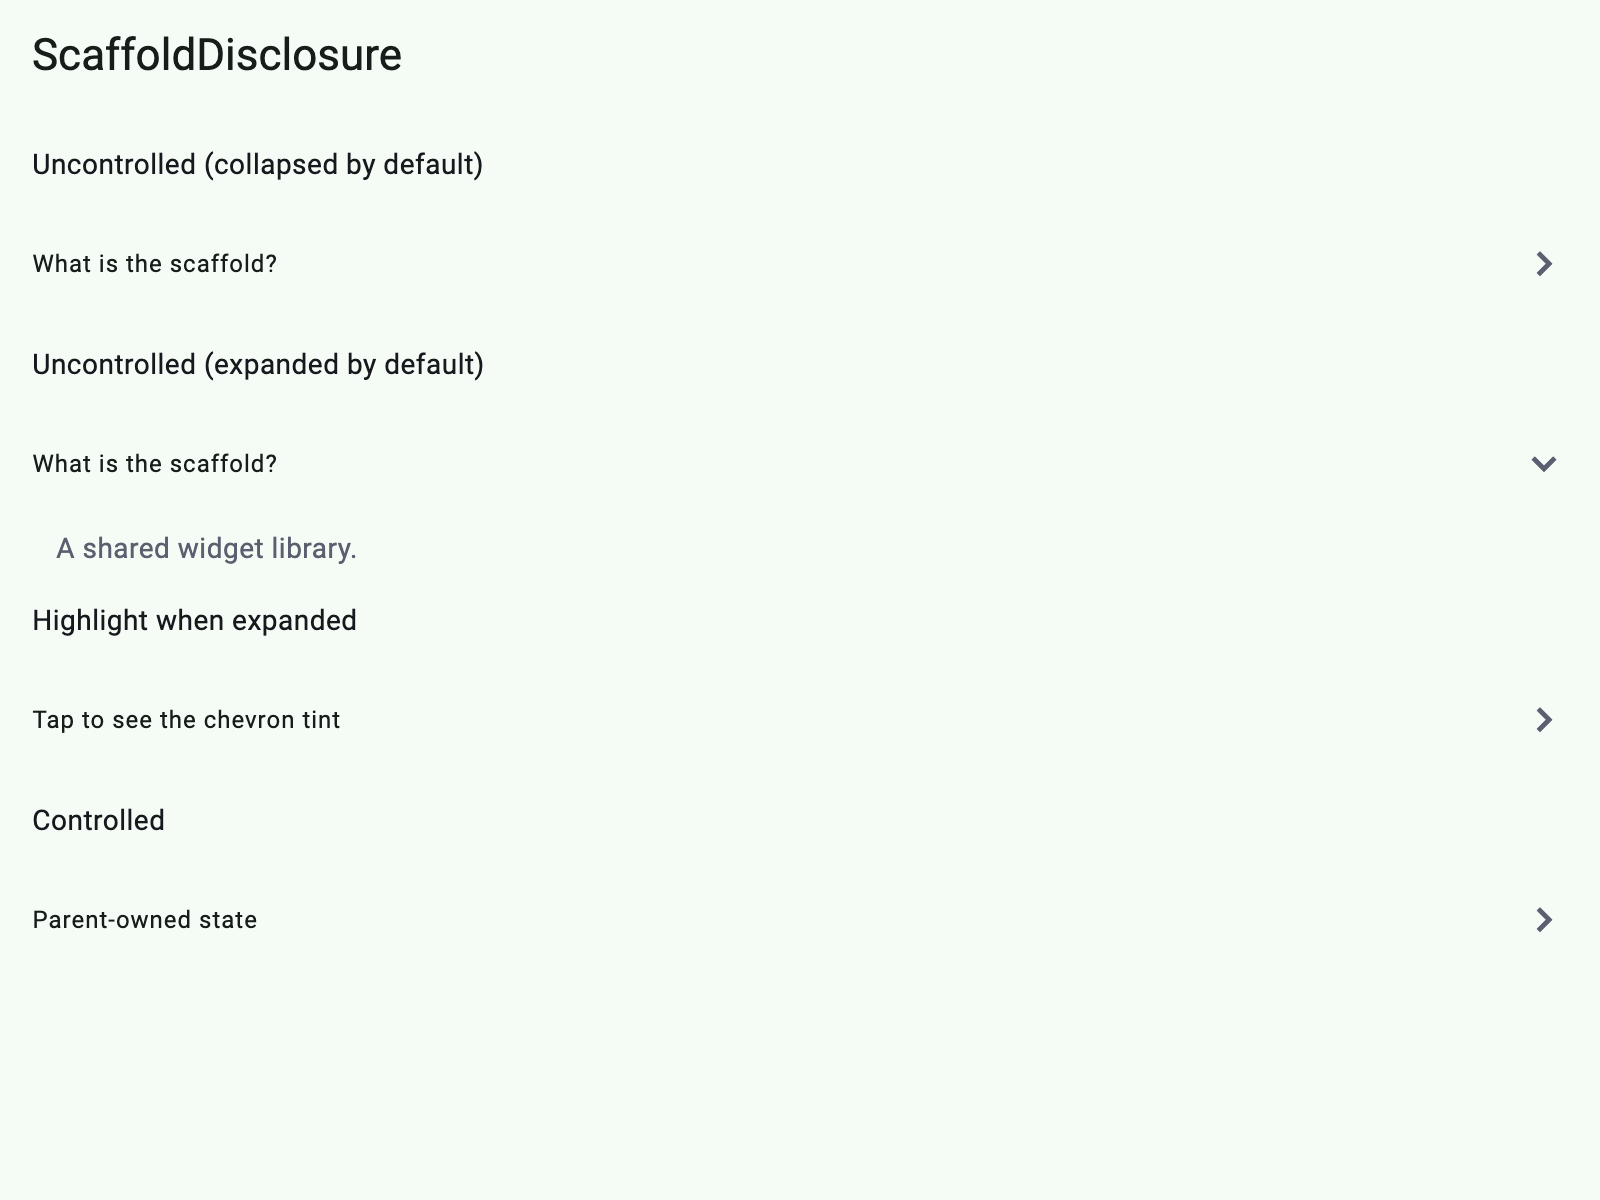
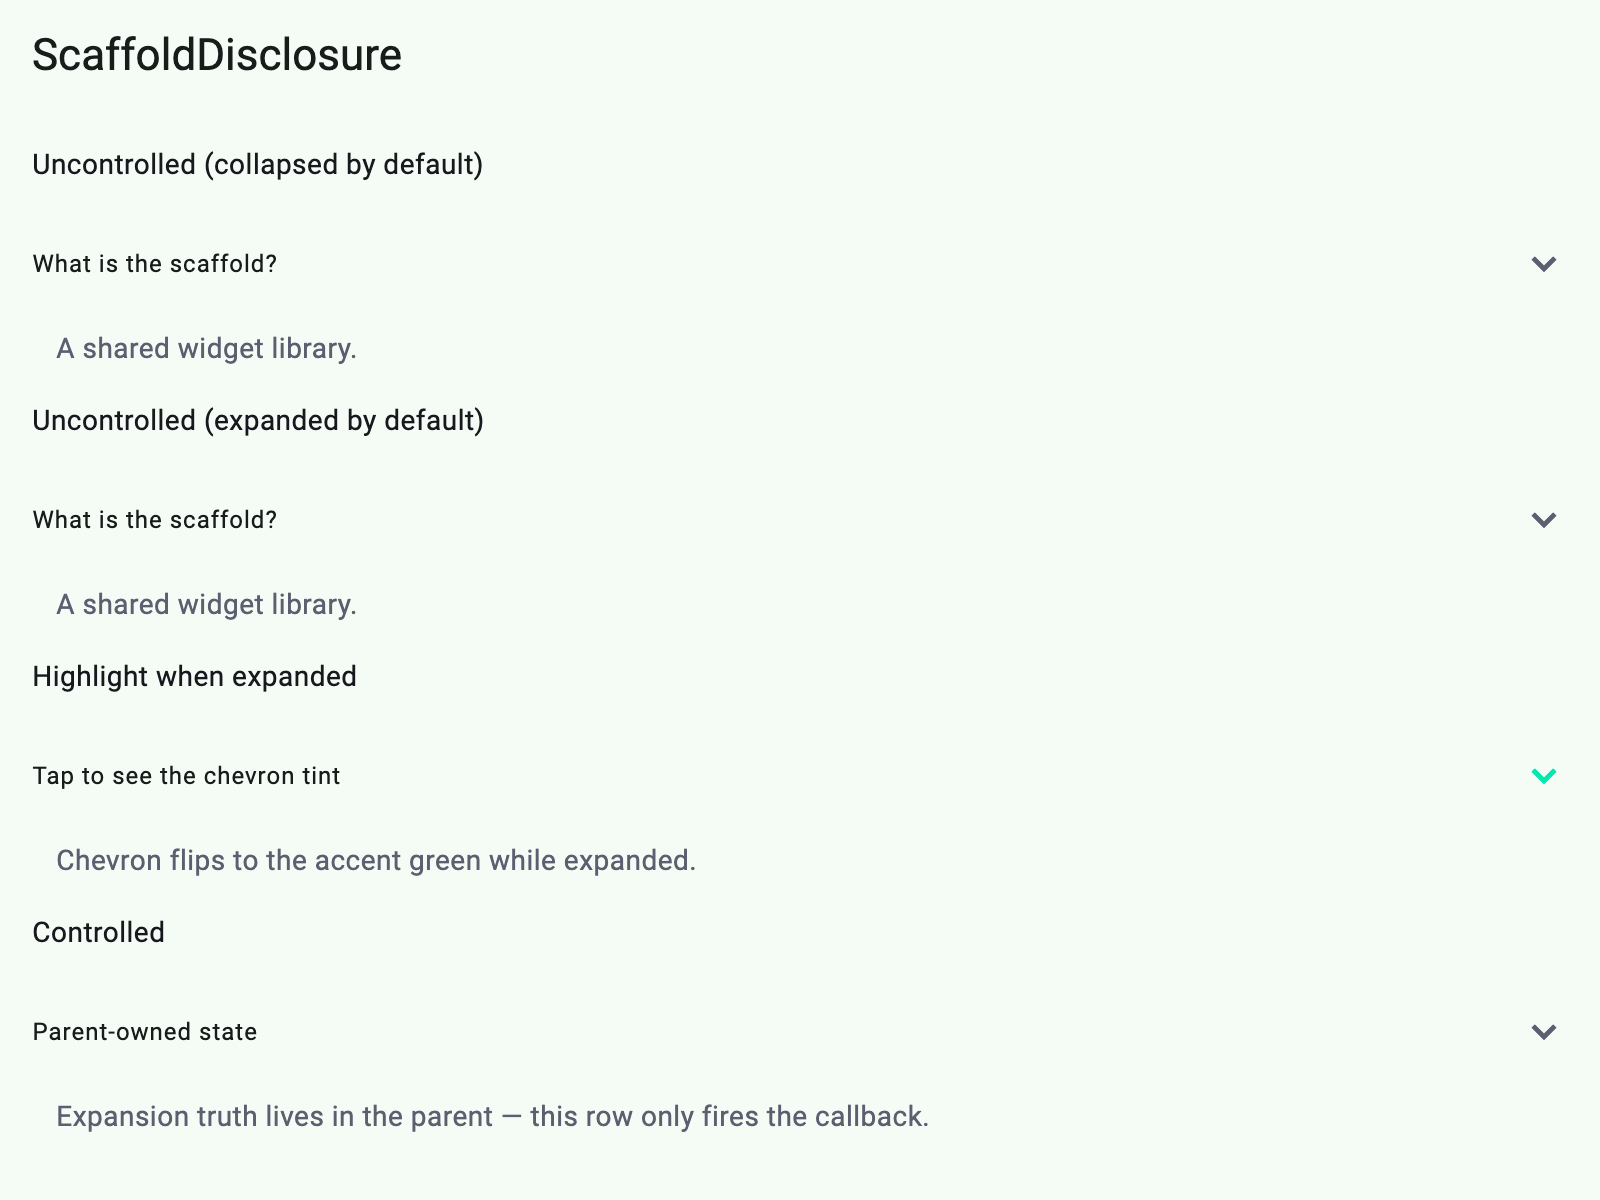
fix(11-02): update _expandAllDisclosures for WR-03 stable-Padding AnimatedSize
WR-03 changed ScaffoldDisclosure's AnimatedSize child to always be
Padding (with gated top-padding) for smooth collapse animation. The
harness's expansion check (child is Padding = expanded) now always
returns true, so collapsed disclosures were never tapped.

Fix: check the Padding's INNER child — SizedBox.shrink = collapsed,
anything else = expanded. Regenerate disclosure/trace_list images.

diff --git a/example/test/capture_images_test.dart b/example/test/capture_images_test.dart
@@ -264,20 +264,26 @@ Future<void> _loadRealFonts() async {
 
 /// Expands all collapsed [ScaffoldDisclosure] widgets by tapping their
 /// header rows. Skips already-expanded disclosures (tapping would collapse
-/// them). Detects expansion by checking whether the AnimatedSize child is
-/// SizedBox.shrink (collapsed) vs Padding (expanded).
+/// them). Detects expansion by walking to the AnimatedSize's Padding child
+/// and checking whether ITS child is SizedBox.shrink (collapsed) vs any
+/// other widget (expanded) — the WR-03 fix keeps the Padding wrapper stable
+/// and swaps only the inner content.
 Future<void> _expandAllDisclosures(WidgetTester tester) async {
   final Iterable<Element> disclosures =
       find.byType(ScaffoldDisclosure).evaluate();
   for (final Element element in disclosures) {
-    // Walk the subtree to find the AnimatedSize child. If it's a
-    // SizedBox.shrink the disclosure is collapsed; if Padding it's expanded.
+    // Walk the subtree to find the AnimatedSize child. It's always a Padding
+    // (WR-03 stable-wrapper fix); expansion is determined by the Padding's
+    // inner child: SizedBox.shrink = collapsed, anything else = expanded.
     bool isExpanded = false;
     void visitor(Element el) {
       if (el.widget is AnimatedSize) {
         final AnimatedSize animatedSize = el.widget as AnimatedSize;
         if (animatedSize.child is Padding) {
-          isExpanded = true;
+          final Padding padding = animatedSize.child as Padding;
+          if (padding.child is! SizedBox) {
+            isExpanded = true;
+          }
         }
       }
       el.visitChildren(visitor);
